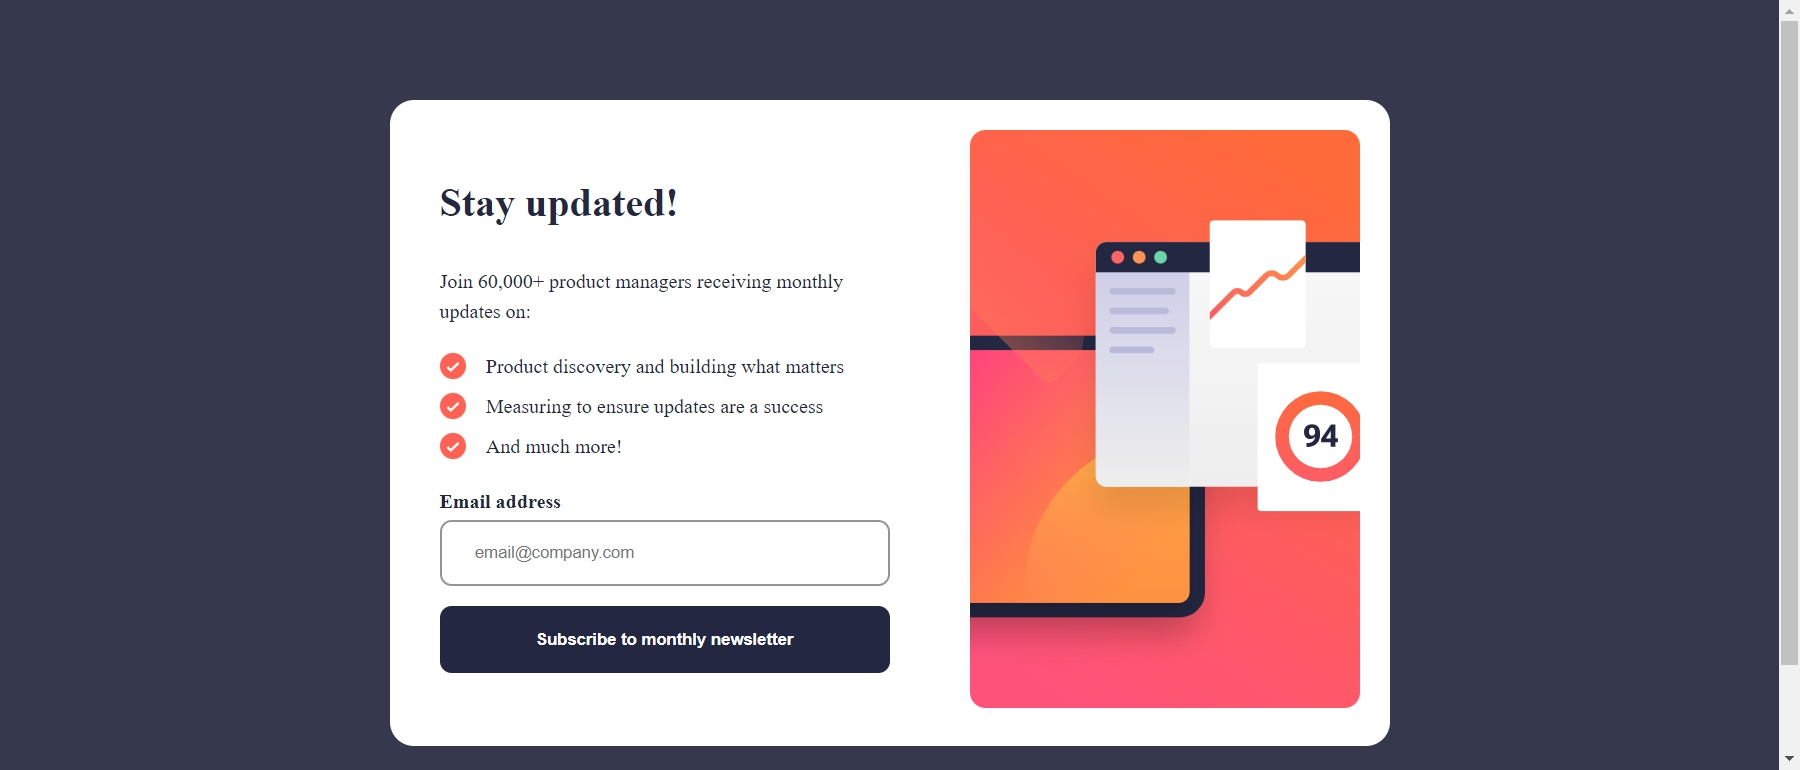
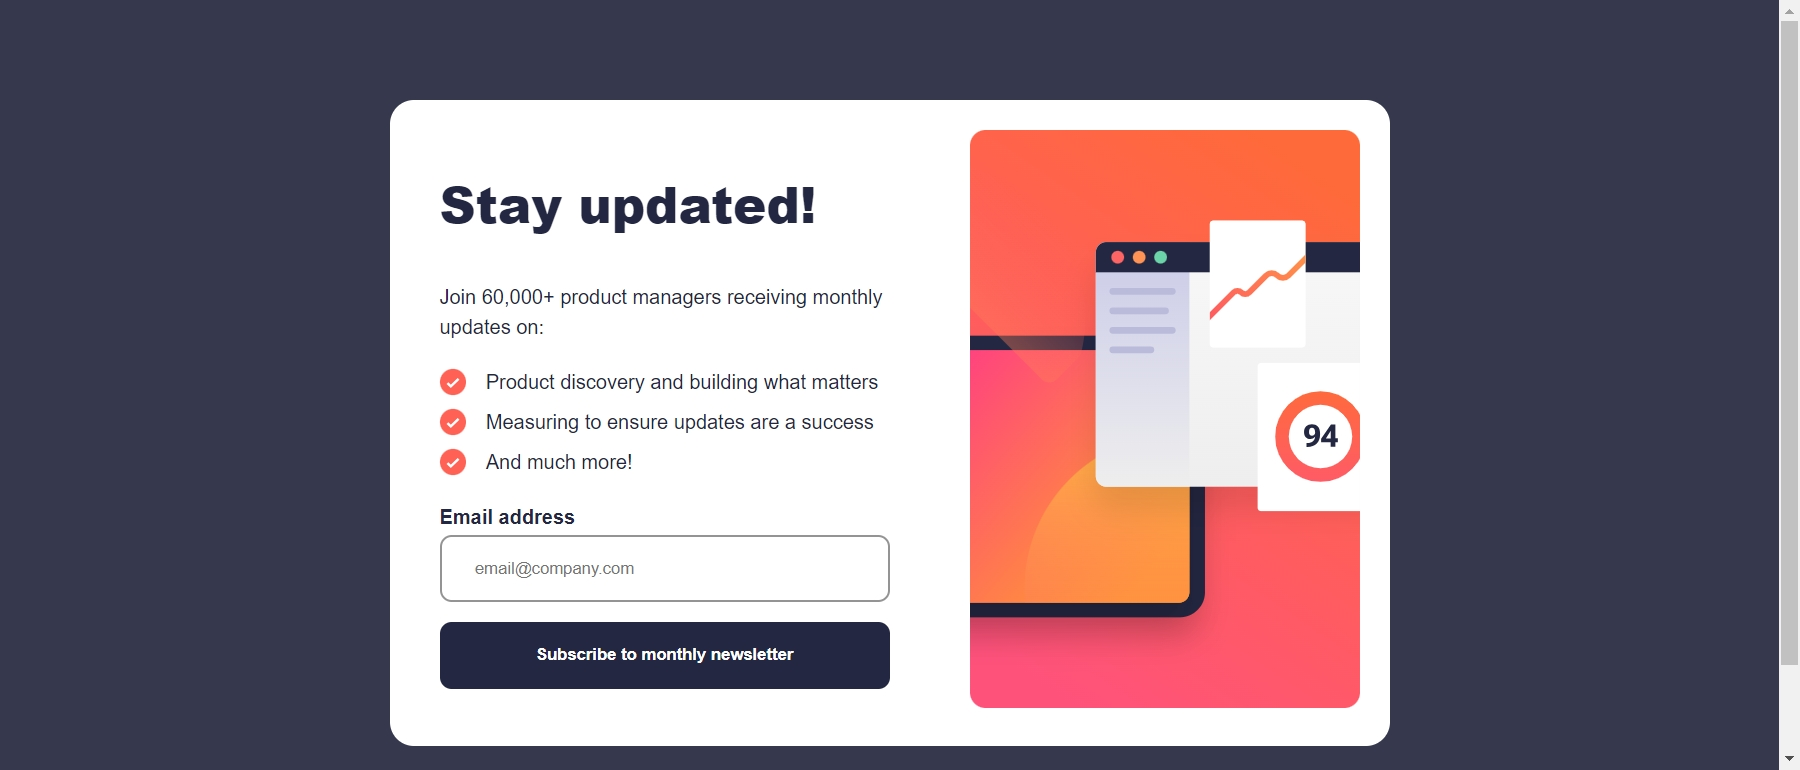
font updated

diff --git a/styles/style.css b/styles/style.css
@@ -8,6 +8,15 @@
    --c-White: hsl(0, 0%, 100%);
 }
 
+/* font */
+@font-face {
+   font-family: "Roboto";
+   src: url(../assets/fonts/Roboto-Regular.ttf) format("ttf"),
+        url(../assets/fonts/Roboto-Bold.ttf) format("ttf");
+   font-weight: 100 900;
+   font-style: normal;
+}
+
 /* Globle Variables */
 
 *,
@@ -22,6 +31,7 @@ body{
    font-size: 16px;
    line-height: 1.5;
    color: var(--c-neutralBlue800);
+   font-family: "Roboto", sans-serif;
    font-weight: 500;
 }
 
@@ -31,7 +41,8 @@ body{
 }
 
 h2{
-   font-size: 2rem;
+   font-size: 2.5rem;
+   font-weight: 900;
 }
 
 /* Hero Section */
